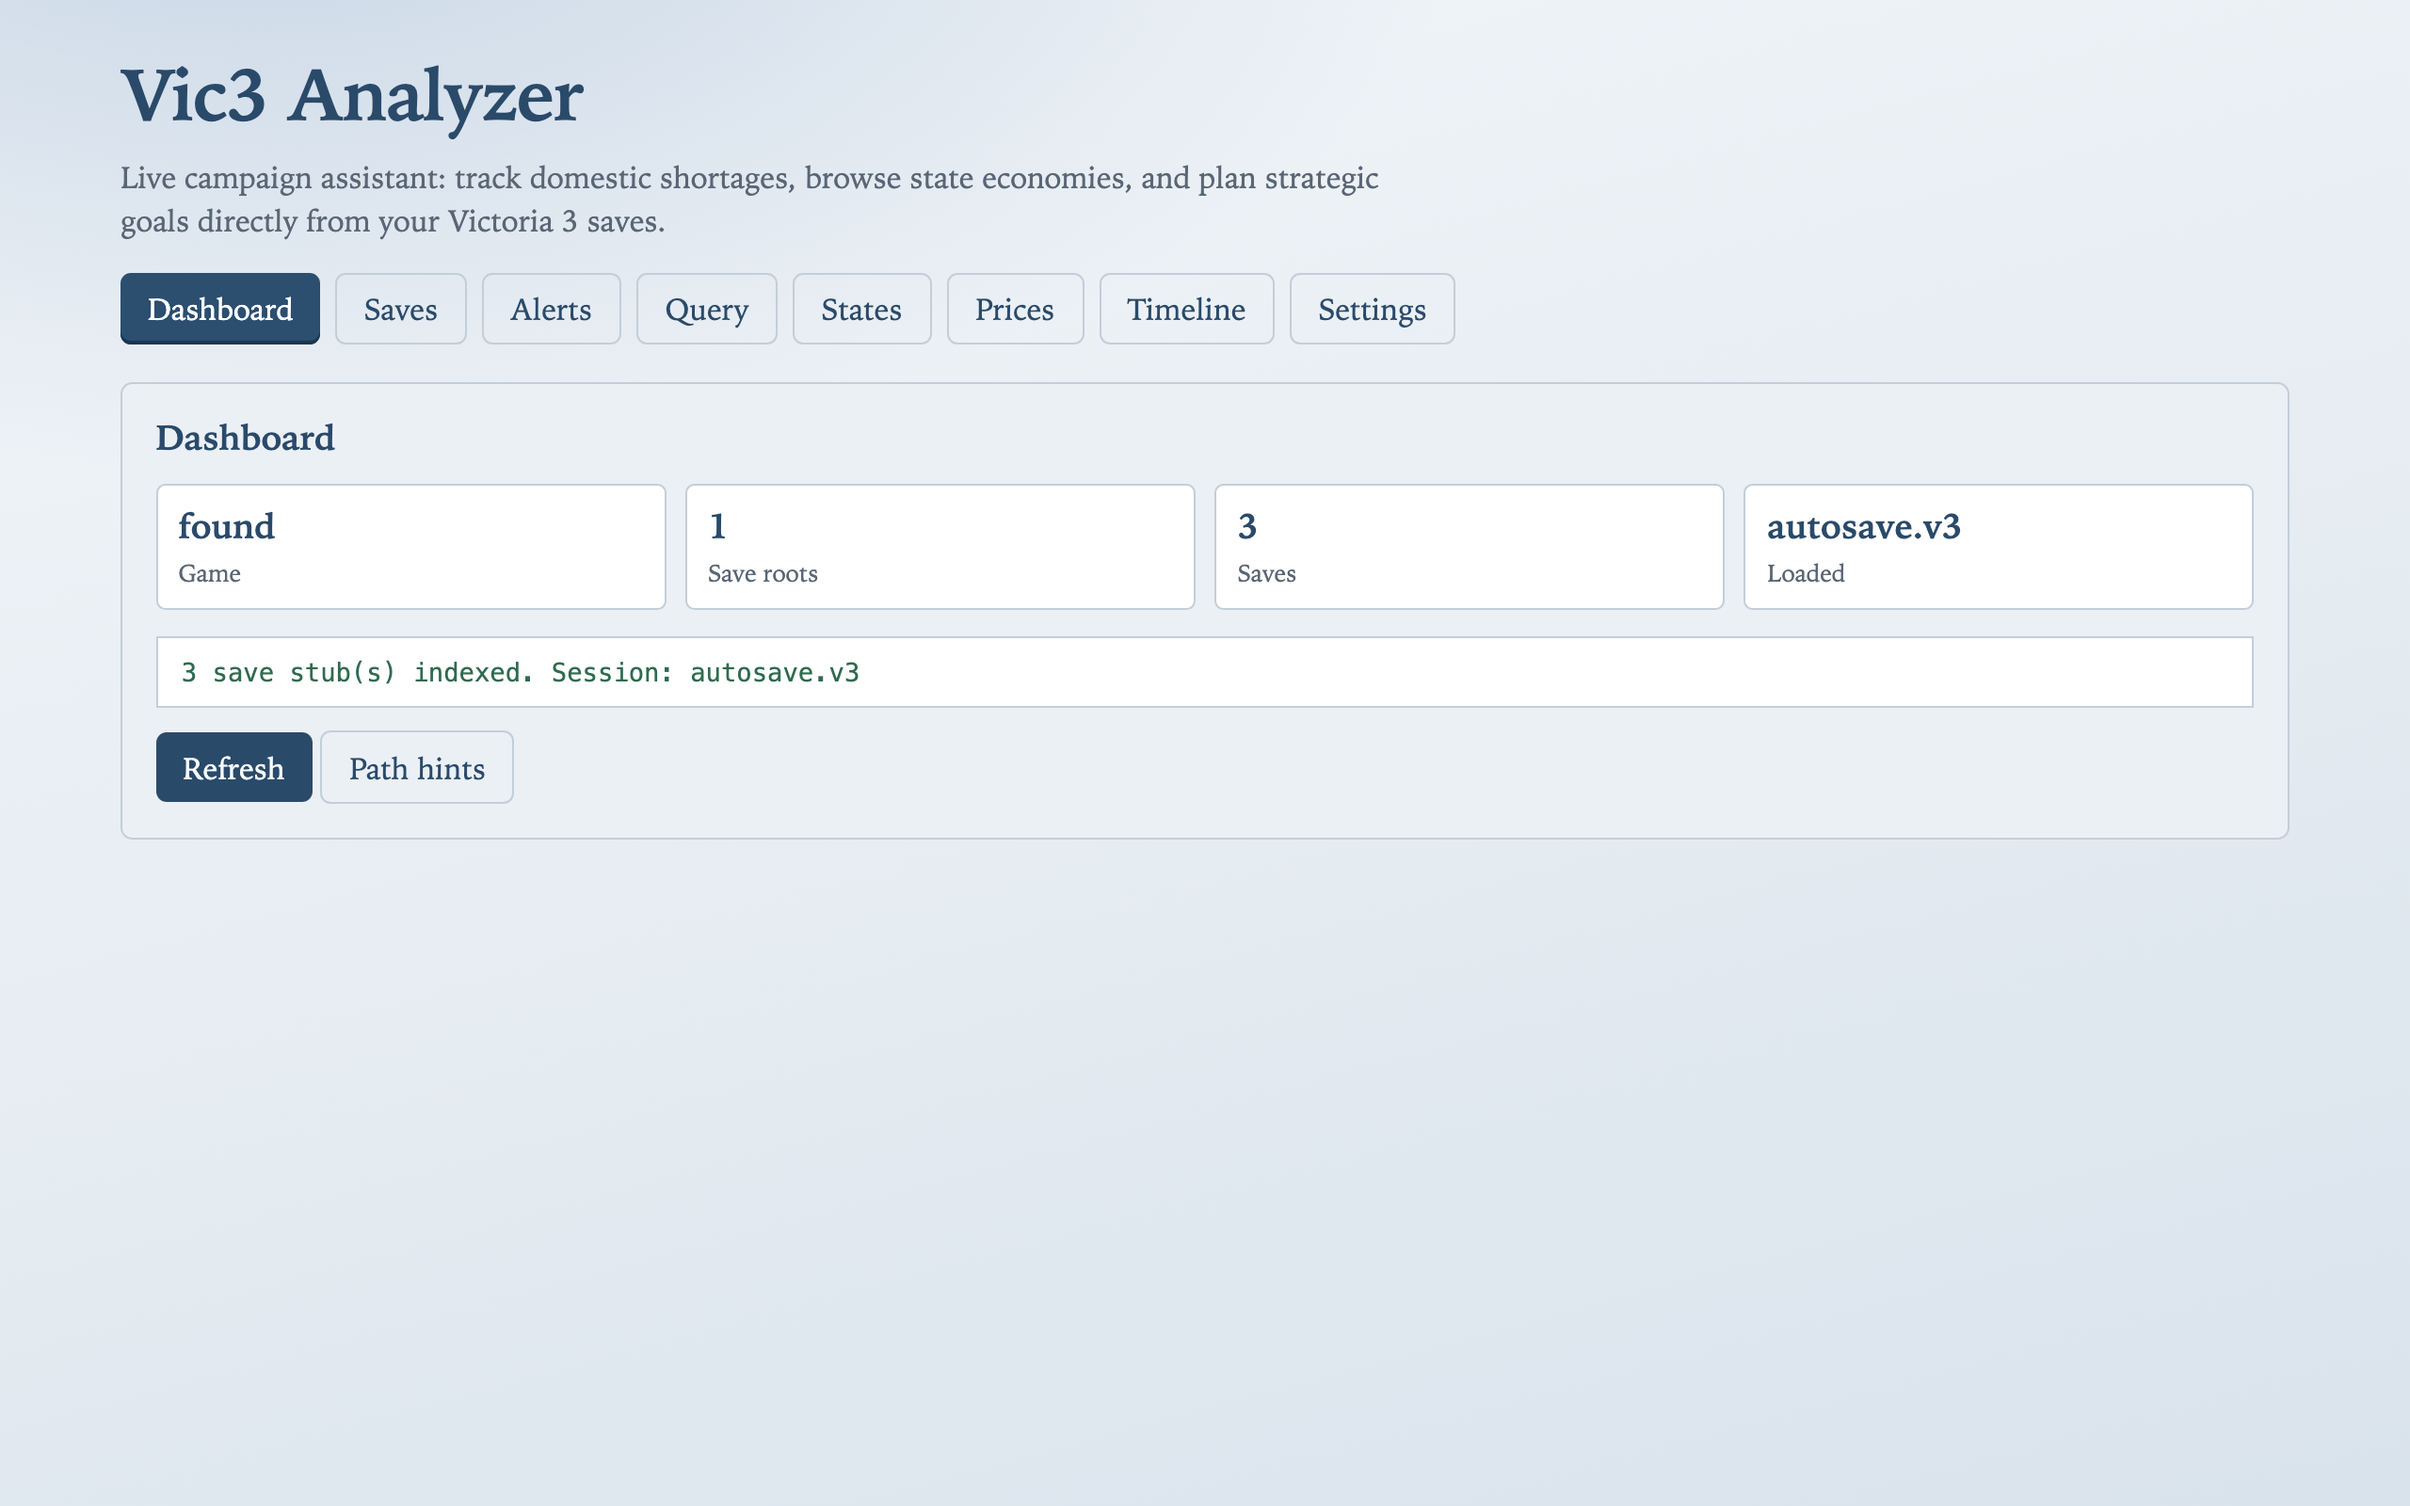
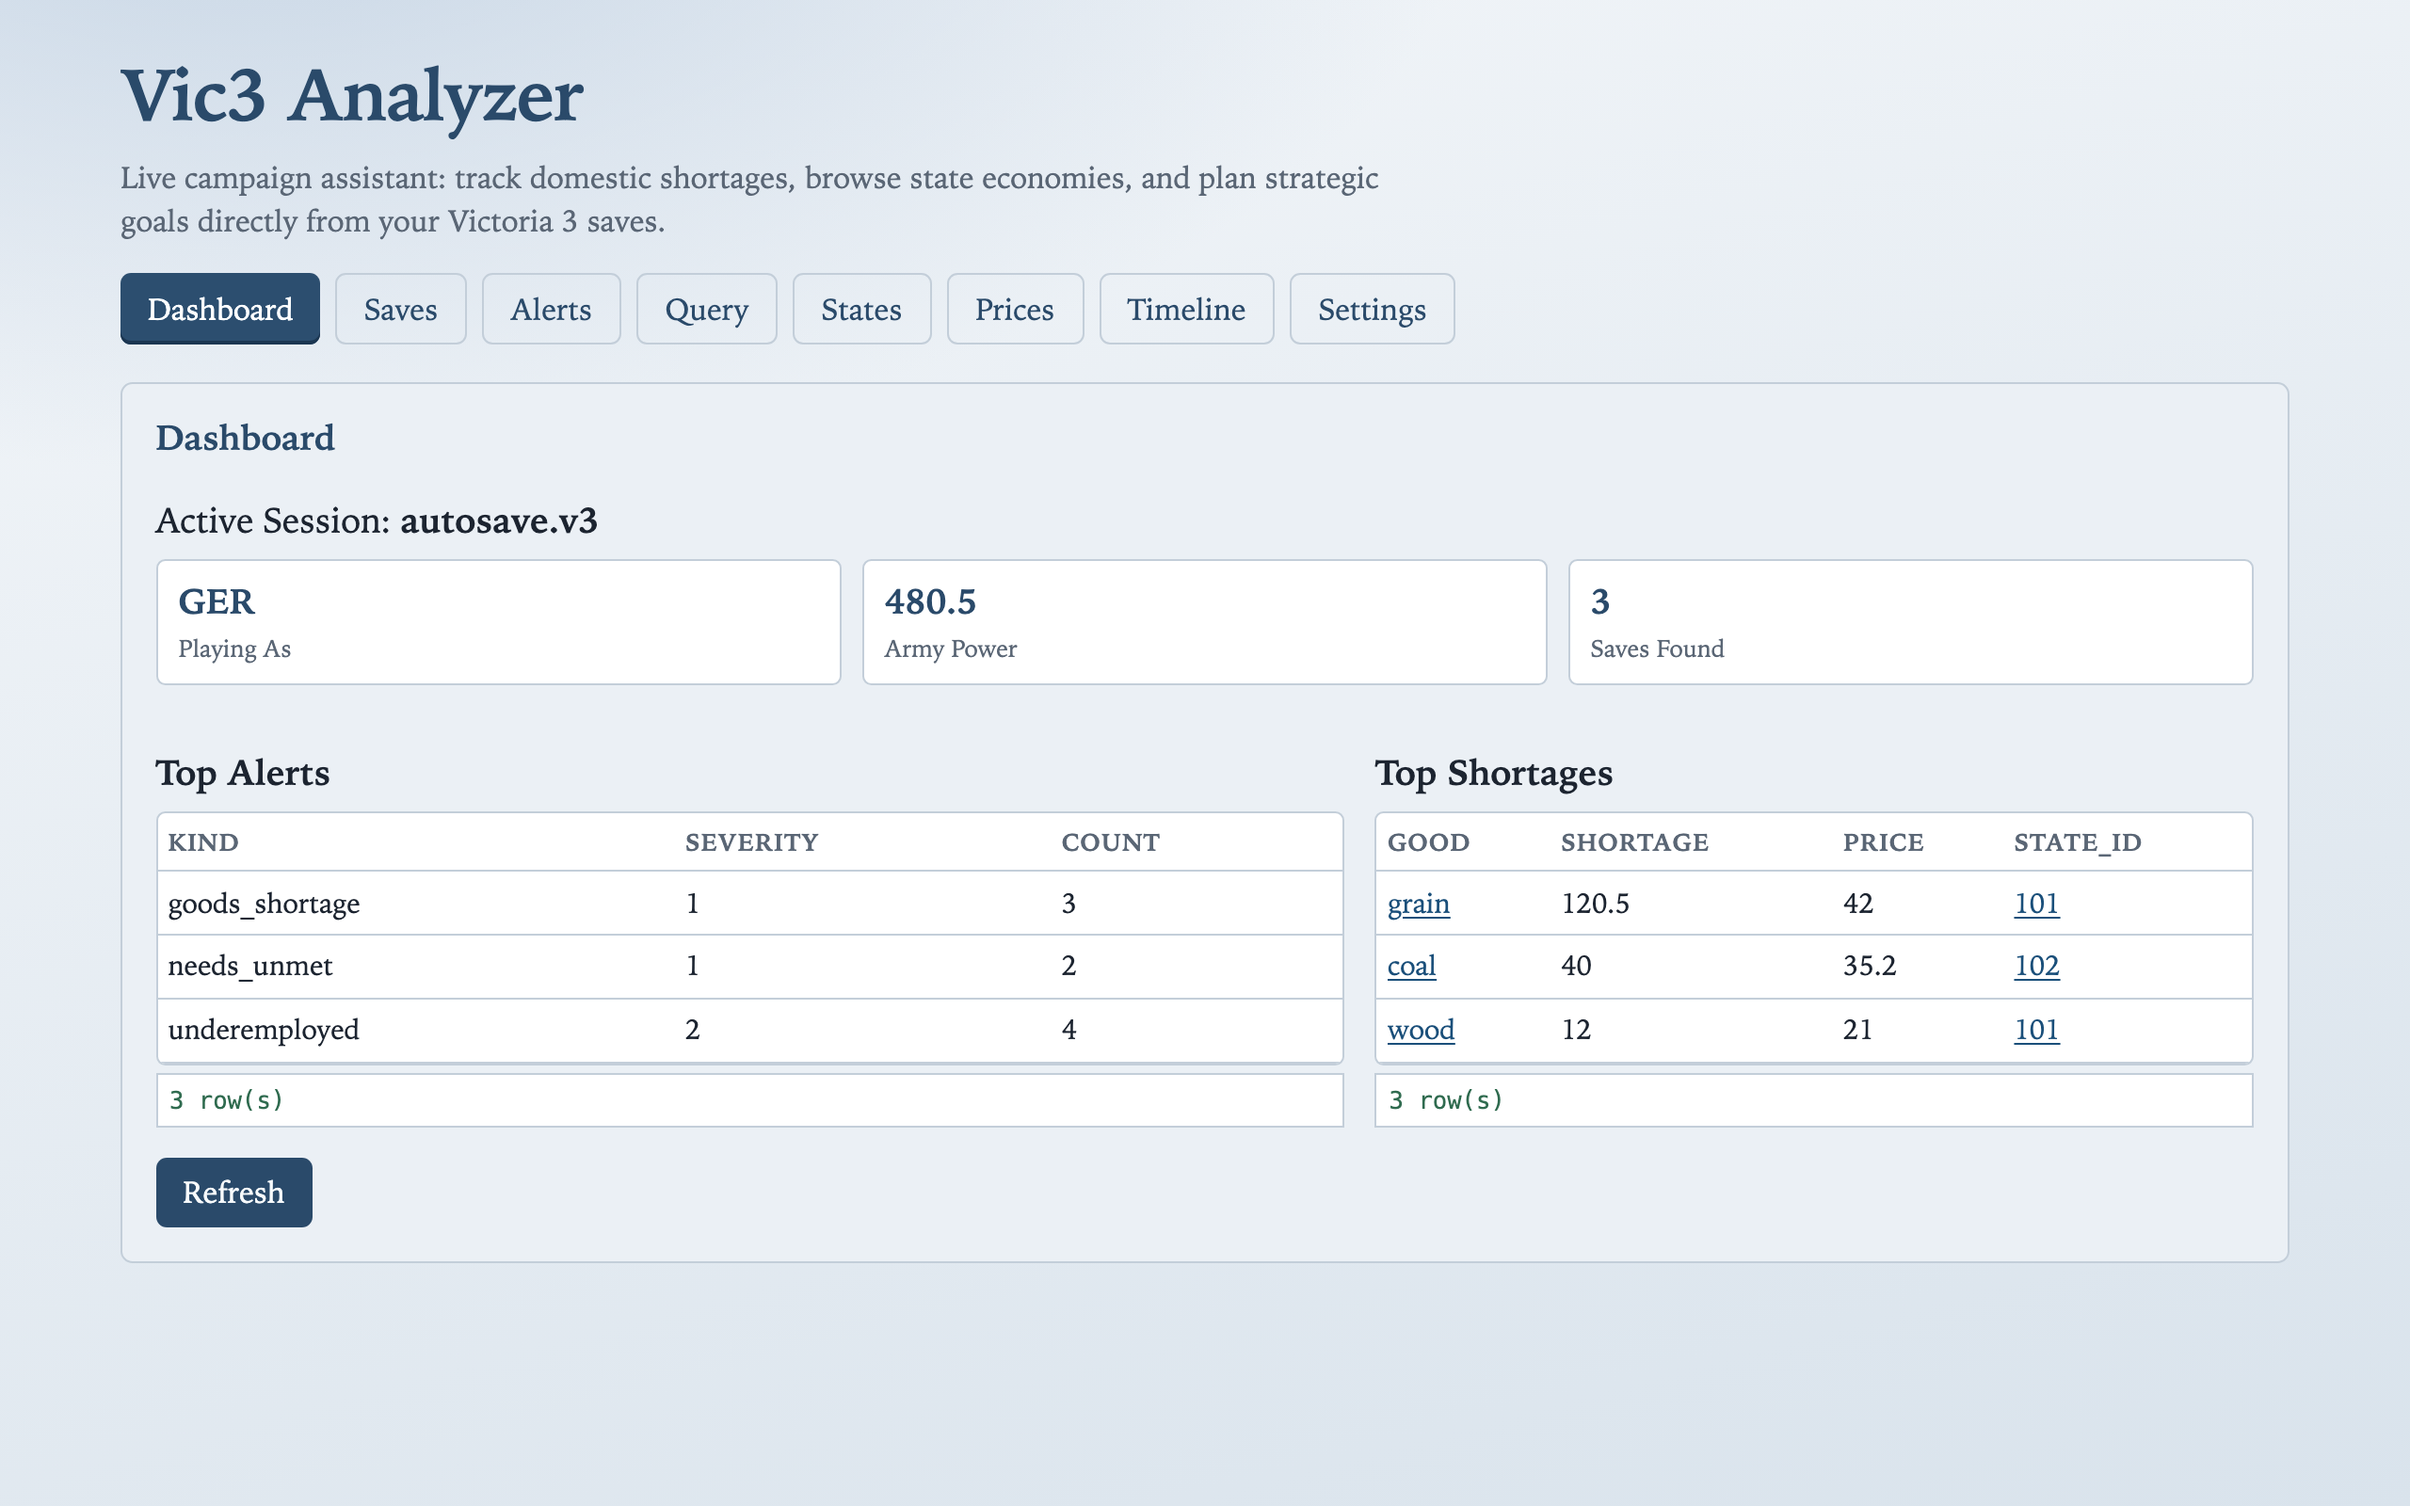
fix(ui): resolve JS exception on save load, regenerate docs screenshots
Also adds an explicit failure message to the screenshot comparison script to remind devs to update documentation when layouts drift.

diff --git a/crates/vic3-analyzer/ui/index.html b/crates/vic3-analyzer/ui/index.html
@@ -1146,16 +1146,6 @@
         const dash = await invoke("get_dashboard");
         renderMetrics(dash);
         fillConfig(dash.config);
-        const bits = [];
-        if (!dash.game_detected) bits.push("Game folder not detected.");
-        if (dash.save_root_count === 0) bits.push("No save roots configured.");
-        bits.push(`${dash.save_count} save stub(s) indexed.`);
-        if (dash.loaded_stub) bits.push(`Session: ${dash.loaded_stub}`);
-        setStatus(
-          document.getElementById("dash-status"),
-          bits.join(" "),
-          dash.game_detected ? "ok" : "err"
-        );
         setAlertsLoadedUi(!!dash.loaded_stub);
       }
 
